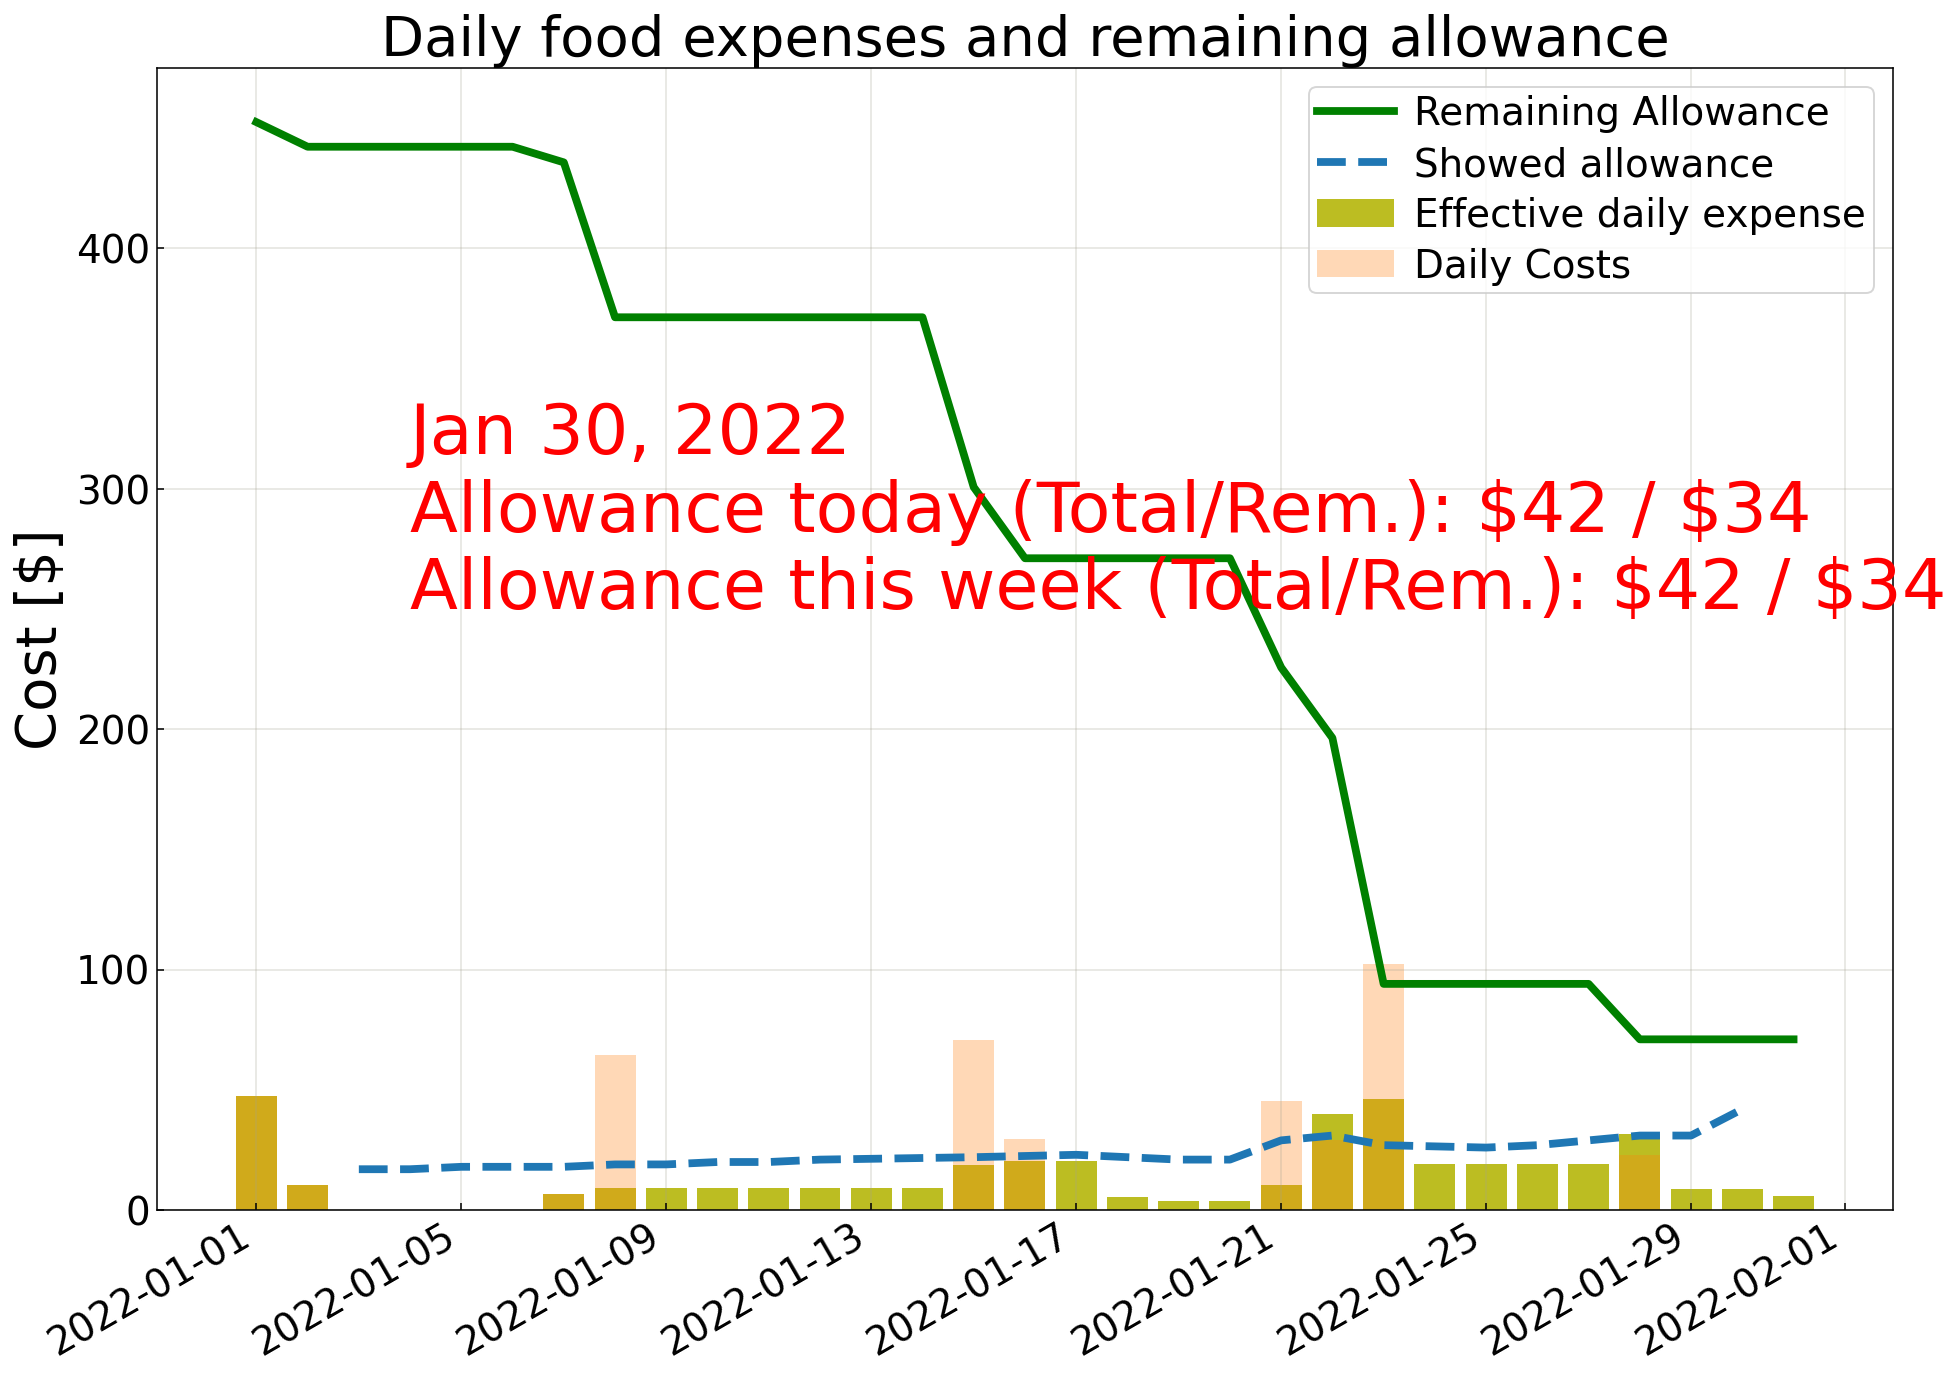
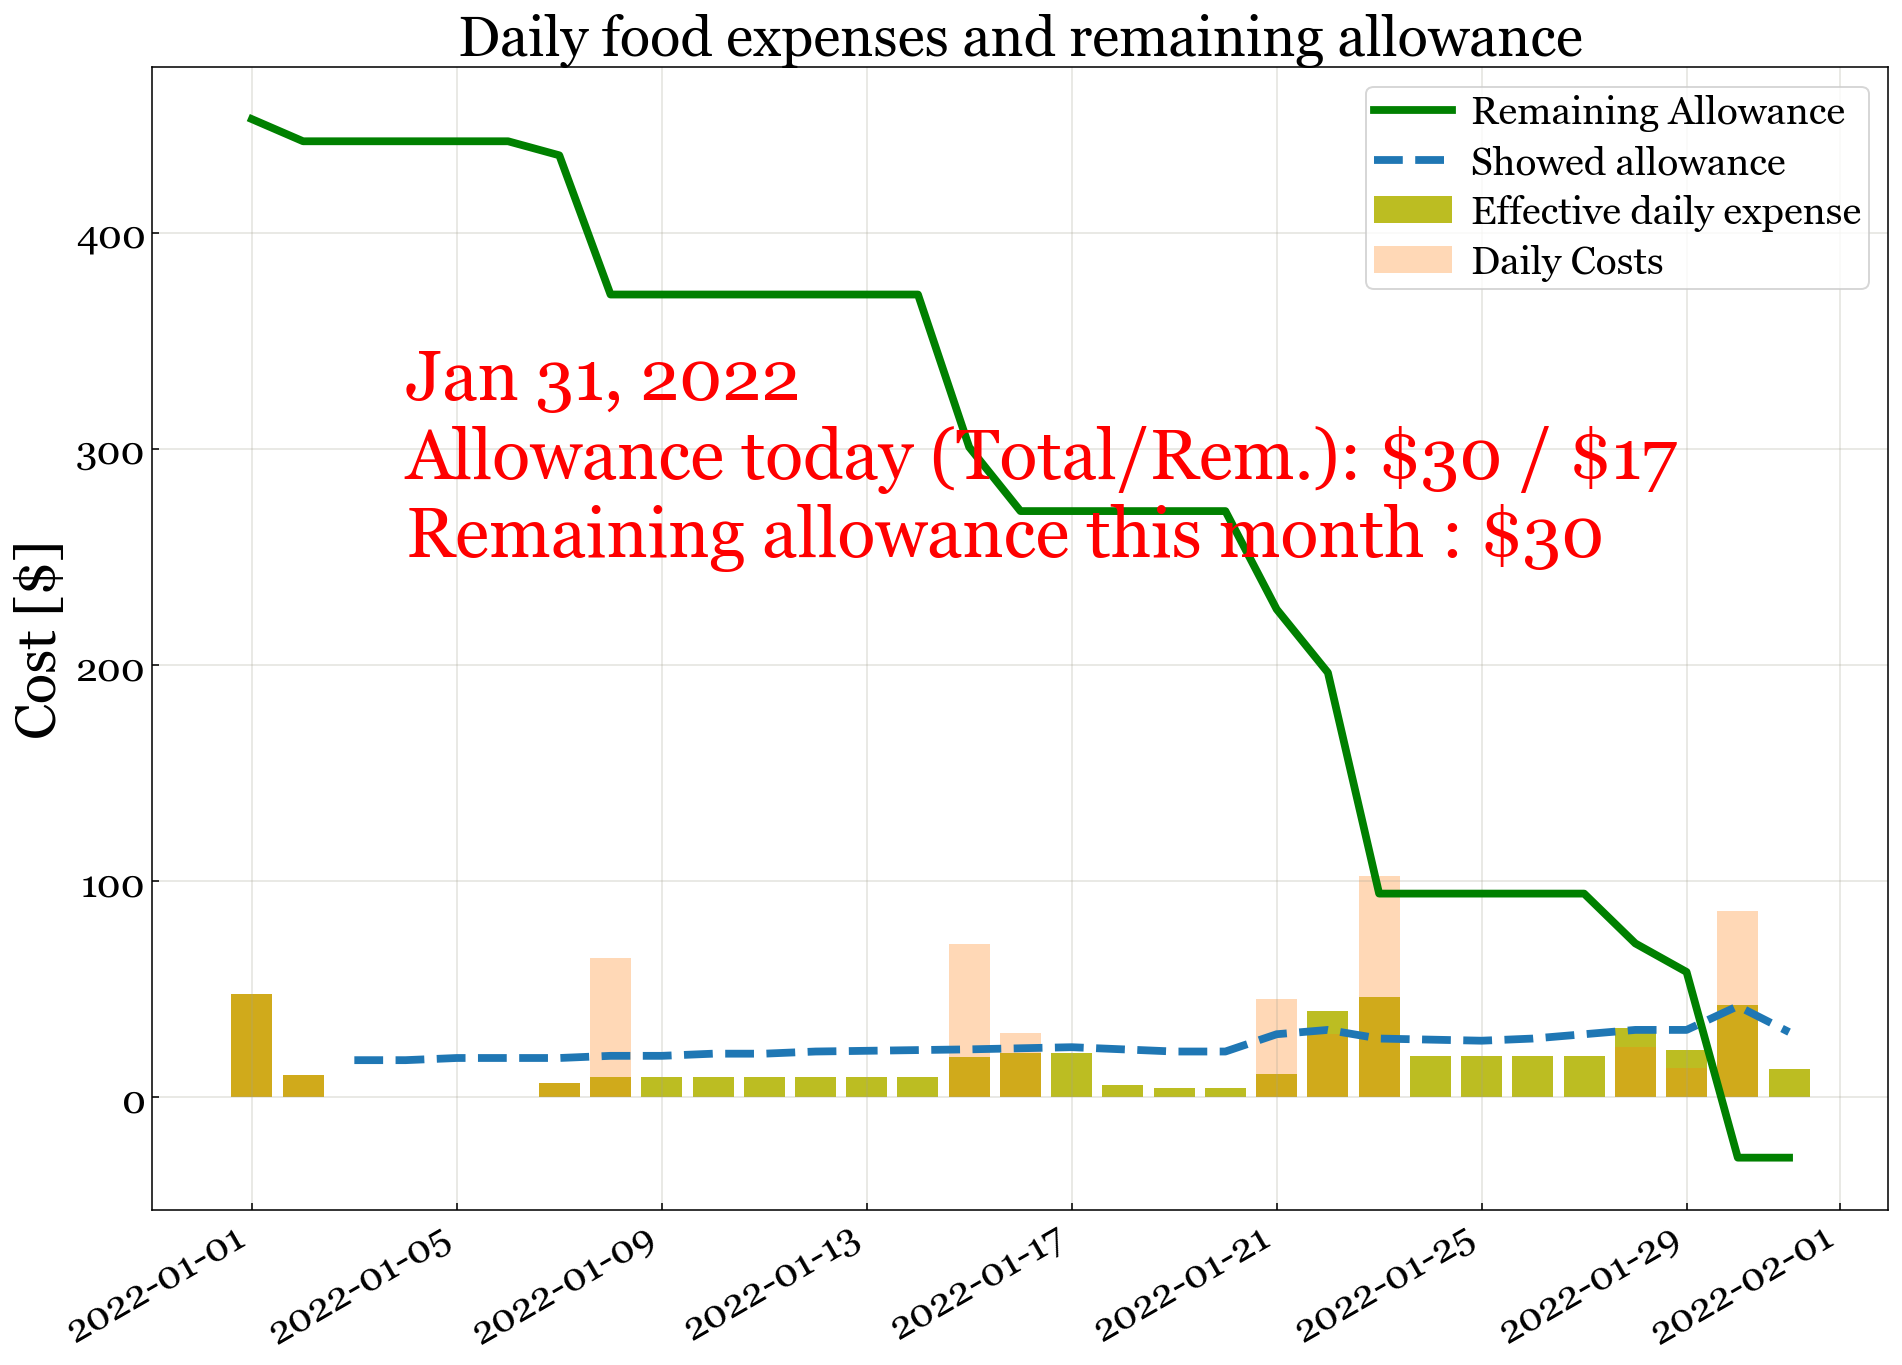
Corrected time array to allow for new months

diff --git a/foodExpenses.py b/foodExpenses.py
@@ -1,6 +1,7 @@
 import gspread
 import numpy as np
-from datetime import datetime, date
+from datetime import datetime, date, timedelta
+from dateutil.relativedelta import relativedelta
 from calendar import monthrange
 from oauth2client.service_account import ServiceAccountCredentials
 import matplotlib.pyplot as plt  # For plotting
@@ -45,6 +46,7 @@ credentials = ServiceAccountCredentials.from_json_keyfile_name(
                                             scope)
 
 defaultMonthlyAllowance = 500
+startDate = date(2022, 1, 1)
 
 
 def parse(data, ii, ind):
@@ -102,20 +104,24 @@ def foodExpenses():
 
     today = datetime.now().date()
     totalDays = monthrange(today.year, today.month)[1]
-    # remAllowance = monthlyAllowance
-    tt = [date(today.year, today.month, day) for day in range(1, totalDays+1)]
-    dailyCosts = np.zeros(len(tt))
+    ttlen = date(today.year, today.month + 2, 1) - startDate
+    tt = [startDate + timedelta(days=int(ii)) for ii in range(ttlen.days)]
+    dailyCosts = np.zeros(ttlen.days)
     perDiumCost = np.zeros_like(dailyCosts)
-    todayInd = today.day - 1
-    weekEndInd = min(todayInd + 7 - today.weekday(), len(tt))
+    todayInd = tt.index(today)
+    monEndInd = tt.index(date(today.year, today.month, 1)
+                         + relativedelta(months=1))
+    weekEndInd = min(todayInd + 7 - today.weekday(), monEndInd)
+
     for ii in range(noEntries):
         if today.month == dates[ii].month:
             ttind = dates[ii].day - 1
             dF = int(daysFor[ii])
             dailyCosts[ttind] += cost[ii]
             perDiumCost[ttind:ttind+dF] += np.ones(dF) * cost[ii] / dF
-    todayAllowance = ((monthlyAllowance - np.sum(perDiumCost[:todayInd]))
-                      / (totalDays - todayInd))
+
+    thisMonRemAllow = monthlyAllowance - np.sum(perDiumCost[:todayInd])
+    todayAllowance = thisMonRemAllow / (totalDays - today.day + 1)
     thisWeekAllow = todayAllowance * (7 - today.weekday())
     todayRemAllow = todayAllowance - perDiumCost[todayInd]
     thisWeekRemAllow = (thisWeekAllow
@@ -134,6 +140,7 @@ def foodExpenses():
     todayRemAllow = int(todayRemAllow)
     thisWeekAllow = int(thisWeekAllow)
     thisWeekRemAllow = int(thisWeekRemAllow)
+    thisMonRemAllow = int(thisMonRemAllow)
 
     writeOver = False
     if ttSA[-1] != today:
@@ -149,23 +156,36 @@ def foodExpenses():
                 f.writelines(ttSA[ii].strftime('%Y/%m/%d ')
                              + str(showedAllowance[ii]) + '\n')
 
+    i0 = tt.index(date(today.year, today.month, 1))
+    i1 = tt.index(date(today.year, today.month + 1, 1))
+    for ii in range(1, totalDays + 1):
+        try:
+            i2 = ttSA.index(date(today.year, today.month, ii))
+            break
+        except BaseException:
+            pass
+
+    motd = '{}\nAllowance today (Total/Rem.): \${} / \${}\n'.format(
+                    today.strftime('%b %d, %Y'), todayAllowance, todayRemAllow)
+    if monEndInd - todayInd > 7:
+        motd += 'Allowance this week (Total/Rem.): \${} / \${}'.format(
+                    thisWeekAllow, thisWeekRemAllow)
+    else:
+        motd += 'Remaining allowance this month : \${}'.format(thisMonRemAllow)
+
     fig, ax = plt.subplots(1, 1, figsize=[16, 12])
-    ax.bar(tt, perDiumCost, label='Effective daily expense',
+    ax.bar(tt[i0:i1], perDiumCost[i0:i1], label='Effective daily expense',
            color='tab:olive')
-    ax.bar(tt, dailyCosts, label='Daily Costs', color='tab:orange', alpha=0.3)
-    ax.plot(tt, monthlyAllowance - np.cumsum(dailyCosts),
+    ax.bar(tt[i0:i1], dailyCosts[i0:i1], label='Daily Costs',
+           color='tab:orange', alpha=0.3)
+    ax.plot(tt[i0:i1], (monthlyAllowance - np.cumsum(dailyCosts))[i0:i1],
             label='Remaining Allowance', color='green')
-    ax.plot(ttSA, showedAllowance, label='Showed allowance',
+    ax.plot(ttSA[i2:], showedAllowance[i2:], label='Showed allowance',
             color='tab:blue', ls='--')
     ax.legend()
     ax.set_title('Daily food expenses and remaining allowance')
     ax.set_ylabel('Cost [$]')
-    ax.text(tt[3], monthlyAllowance/2,
-            '{}\nAllowance today (Total/Rem.): \${} / \${}\n'
-            'Allowance this week (Total/Rem.): \${} / \${}'.format(
-                today.strftime('%b %d, %Y'), todayAllowance, todayRemAllow,
-                thisWeekAllow, thisWeekRemAllow),
-            fontsize=36, color='red')
+    ax.text(tt[3], monthlyAllowance/2, motd, fontsize=36, color='red')
     fig.autofmt_xdate()
     fig.savefig('DailyCostsAndParameters.png')
 
